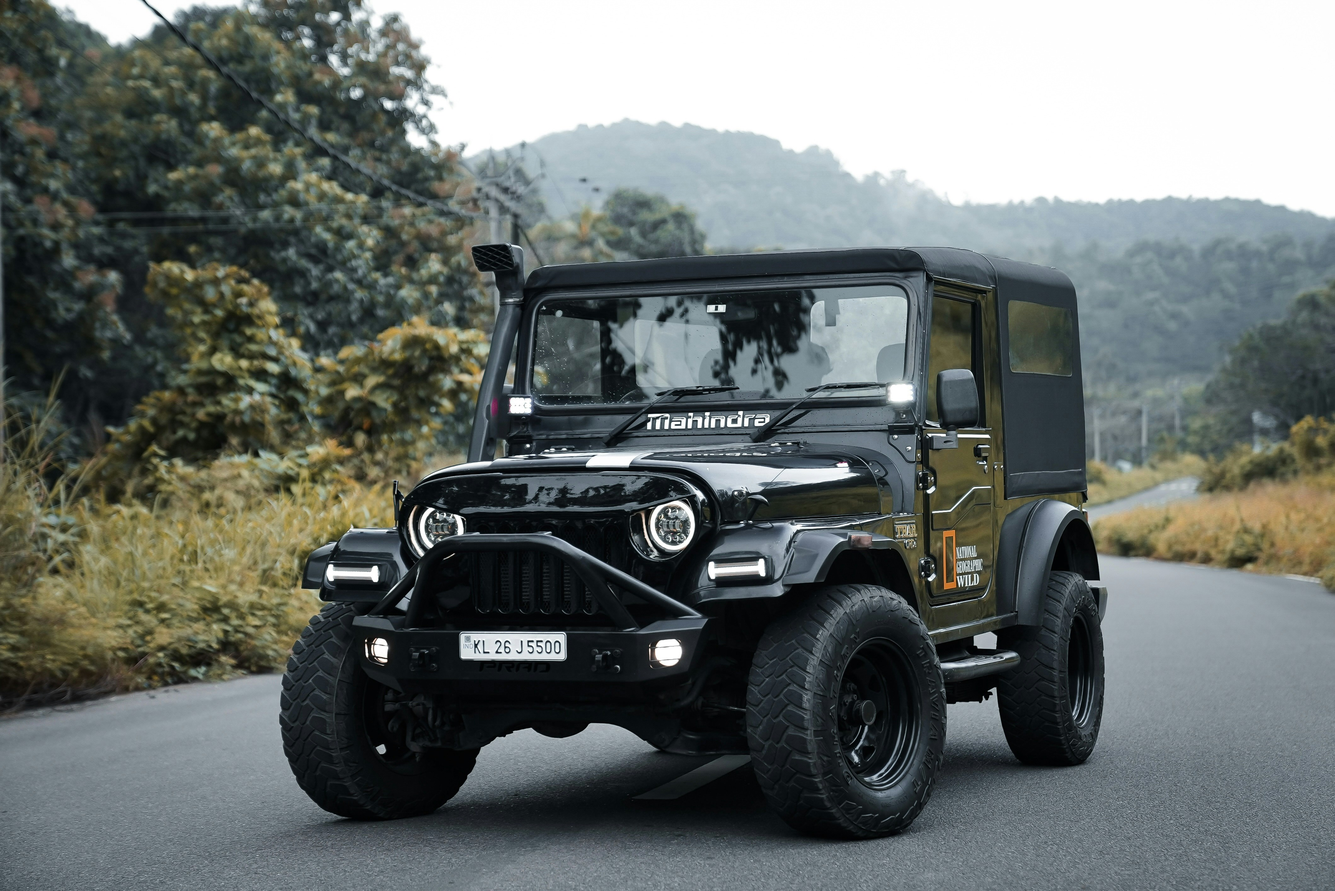
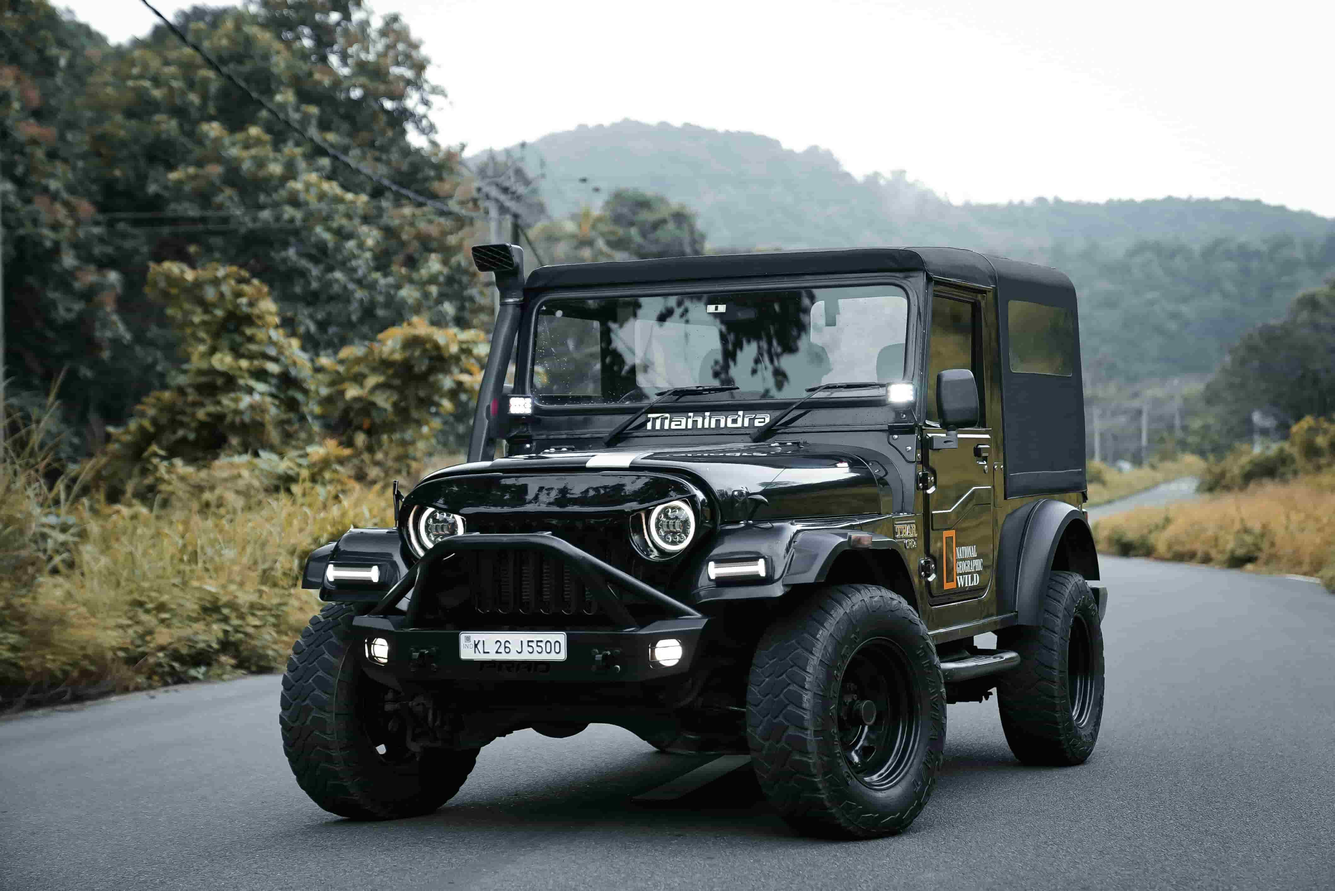
feat: update content schema, migrate site assets, and refine vehicle card UI

diff --git a/src/content.config.ts b/src/content.config.ts
@@ -21,15 +21,15 @@ const servicesCollection = defineCollection({
     galleryBadge: z.string(),
     galleryTitle: z.string(),
     galleryDescription: z.string(),
-    heroBadge: z.string(),
+    heroBadge: z.string().optional(),
     heroTitle: z.string(),
-    heroDescription: z.string(),
+    heroDescription: z.string().optional(),
     sortOrder: z.number().default(10),
     published: z.boolean().default(true),
 
     // 1. Who This Is For
-    whoIsThisForHeading: z.string(),
-    whoIsThisForContent: z.string(),
+    whoIsThisForHeading: z.string().optional(),
+    whoIsThisForContent: z.string().optional(),
     whoIsThisFor: z.array(z.string()).optional(),
 
     // 2. What's Covered (2x2 Grid with Title & Description)
@@ -72,7 +72,7 @@ const vehiclesCollection = defineCollection({
     seats: z.number().optional(),
     amenities: z.array(z.string()),
     image: image().optional(),
-    imageNote: z.enum(["Actual Vehicle", "Representative Vehicle"]),
+    imageNote: z.enum(["Actual Vehicle", "Representative Vehicle"]).optional(),
     sortOrder: z.number().default(10),
     published: z.boolean().default(true),
     summary: z.string(),

diff --git a/src/content/services/udaipur-airport-transfer.md b/src/content/services/udaipur-airport-transfer.md
@@ -3,15 +3,15 @@ title: Udaipur Airport Transfer
 category: Transfers
 summary: Reliable, flight-aware airport pickup and drop service from Maharana
   Pratap (Dabok) Airport to your hotel in Udaipur city.
-image: ../../assets/images/services/udaipur-transfer.jpg
+image: ../../assets/images/services/airport.jpg
 gallery:
   - url: "../../assets/images/services/udaipur-transfer.jpg"
     isPrimary: false
-  - url: "../../assets/images/mohit-khatri-ydrocw9okmw-unsplash.jpg"
+  - url: "../../assets/images/services/river.jpg"
     isPrimary: false
   - url: "../../assets/images/services/udaipur-transfer.jpg"
     isPrimary: false
-  - url: "../../assets/images/mohit-khatri-ydrocw9okmw-unsplash.jpg"
+  - url: "../../assets/images/blog/blog-night.jpg"
     isPrimary: false
   - url: "../../assets/images/services/udaipur-transfer.jpg"
     isPrimary: false

diff --git a/src/content/services/local-car-with-driver.md b/src/content/services/local-car-with-driver.md
@@ -2,14 +2,15 @@
 title: "Local Car Rental with Driver in Udaipur"
 category: "Local Travel"
 summary: "Flexible local taxi packages (8 Hrs/80 Km or 12 Hrs/120 Km) for business meetings, shopping, and Udaipur city movement."
+image: ../../assets/images/services/carwithdriver.jpg
 gallery:
   - url: "../../assets/images/services/udaipur-transfer.jpg"
     isPrimary: false
-  - url: "../../assets/images/mohit-khatri-ydrocw9okmw-unsplash.jpg"
-    isPrimary: true
+  - url: "../../assets/images/blog/blog-night.jpg"
+    isPrimary: false
   - url: "../../assets/images/services/udaipur-transfer.jpg"
     isPrimary: false
-  - url: "../../assets/images/mohit-khatri-ydrocw9okmw-unsplash.jpg"
+  - url: "../../assets/images/services/river.jpg"
     isPrimary: false
 galleryBadge: "The Service, In Pictures"
 galleryTitle: "Local Car Rental in pictures"

diff --git a/src/content/contact/contact.md b/src/content/contact/contact.md
@@ -5,7 +5,7 @@ subtitle: "Skip automated call centers. Connect directly with the transport coor
 directChannelsHeading: "Direct Contact Channels"
 directChannelsSubheading: "Direct Connect"
 directChannelsDesc: "Choose your preferred method of communication. For immediate airport pickups or urgent travel queries, calling or sending a WhatsApp message is the fastest option. We do not rely on third-party call centers or automated chat bots."
-heroImage: "../../assets/images/contact/phone.jpg"
+heroImage: "../../assets/images/contact/contact-us.jpg"
 phoneCard:
   label: "Call Us Directly"
   title: "+91 70458 36164"

diff --git a/src/content/services/udaipur-railway-station-transfer.md b/src/content/services/udaipur-railway-station-transfer.md
@@ -3,8 +3,7 @@ title: Udaipur Railway Station Transfer
 category: Transfers
 summary: Hassle-free private cab transfer from Udaipur City Railway Station
   (UDZ) directly to your resort, hotel, or heritage homestay.
-image: ../../assets/images/services/udaipur.jpg
-gallery: []
+image: ../../assets/images/services/railway.jpg
 galleryBadge: "The Service, In Pictures"
 galleryTitle: "Udaipur Railway Station Transfer in pictures"
 galleryDescription: "Explore key moments of our seamless station pickup and drop services across Udaipur city and lakeside properties."

diff --git a/src/content/about/about.md b/src/content/about/about.md
@@ -8,8 +8,8 @@ storyBadge: "Who We Are"
 storyHeading: "Our Story"
 storyEnquiryBtnText: "Send Travel Enquiry"
 storyWhatsappBtnText: "Chat With Us"
-image: "../../assets/images/services/udaipur-transfer.jpg"
-heroImage: "../../assets/images/about/passion.jpg"
+image: "../../assets/images/about/about-us.jpg"
+heroImage: "../../assets/images/about/about.jpg"
 howWeWorkBadge: "Operational Standards"
 howWeWorkHeading: "How we work"
 howWeWork:

diff --git a/src/content/blog/best-time-to-visit-udaipur-a-season-by-season-travel-guide.md b/src/content/blog/best-time-to-visit-udaipur-a-season-by-season-travel-guide.md
@@ -1,6 +1,6 @@
 ---
 title: "Best Time to Visit Udaipur: A Season-by-Season Travel Guide"
-image: "../../assets/images/mohit-khatri-ydrocw9okmw-unsplash.jpg"
+image: "../../assets/images/blog/blog-night.jpg"
 summary: Discover the best season to visit Udaipur, what to expect throughout
   the year, and which type of transport is most suitable for your trip.
 publishDate: 2026-07-29T15:41:00.000+05:30

diff --git a/src/content/blog/how-udaipur-airport-pickup-works.md b/src/content/blog/how-udaipur-airport-pickup-works.md
@@ -4,7 +4,7 @@ summary: "A complete walkthrough of arriving at Maharana Pratap Airport (Dabok),
 publishDate: "2026-07-25"
 author: "Udaipur Royal Dispatch Team"
 category: "Airport Transfers"
-image: "../../assets/images/services/udaipur-transfer.jpg"
+image: "../../assets/images/blog/airport-pickup.jpg"
 relatedService: "udaipur-airport-transfer"
 published: true
 featured: true

diff --git a/src/content/blog/what-is-included-in-taxi-tariff.md b/src/content/blog/what-is-included-in-taxi-tariff.md
@@ -1,6 +1,6 @@
 ---
 title: What is Actually Included in a Private Taxi Price in Rajasthan?
-image: "../../assets/images/services/udaipur-transfer.jpg"
+image: "../../assets/images/blog/private-taxi.jpg"
 summary: "Understand the math behind outstation taxi tariffs: fuel, driver
   allowances, toll taxes, monument parking fees, and border rules."
 publishDate: 2026-07-18

diff --git a/src/content/blog/choosing-a-vehicle-for-passengers-and-luggage.md b/src/content/blog/choosing-a-vehicle-for-passengers-and-luggage.md
@@ -1,6 +1,6 @@
 ---
 title: Choosing the Right Vehicle for Passengers and Luggage in Rajasthan
-image: ../../assets/images/mohit-khatri-ydrocw9okmw-unsplash.jpg
+image: "../../assets/images/blog/car-choose.jpg"
 summary: A practical guide to avoiding cramped legroom and overloaded car boots
   on long outstation highway drives from Udaipur.
 publishDate: 2026-07-21

diff --git a/src/content/vehicles/tempo-traveller-12-seater.md b/src/content/vehicles/tempo-traveller-12-seater.md
@@ -12,7 +12,6 @@ amenities:
     "PA Sound System",
     "Curtains for Privacy",
   ]
-imageNote: "Actual Vehicle"
 sortOrder: 3
 published: true
 summary: "The definitive choice for joint families, wedding guest movement, and corporate sightseeing groups requiring ample legroom and heavy luggage capacity."
